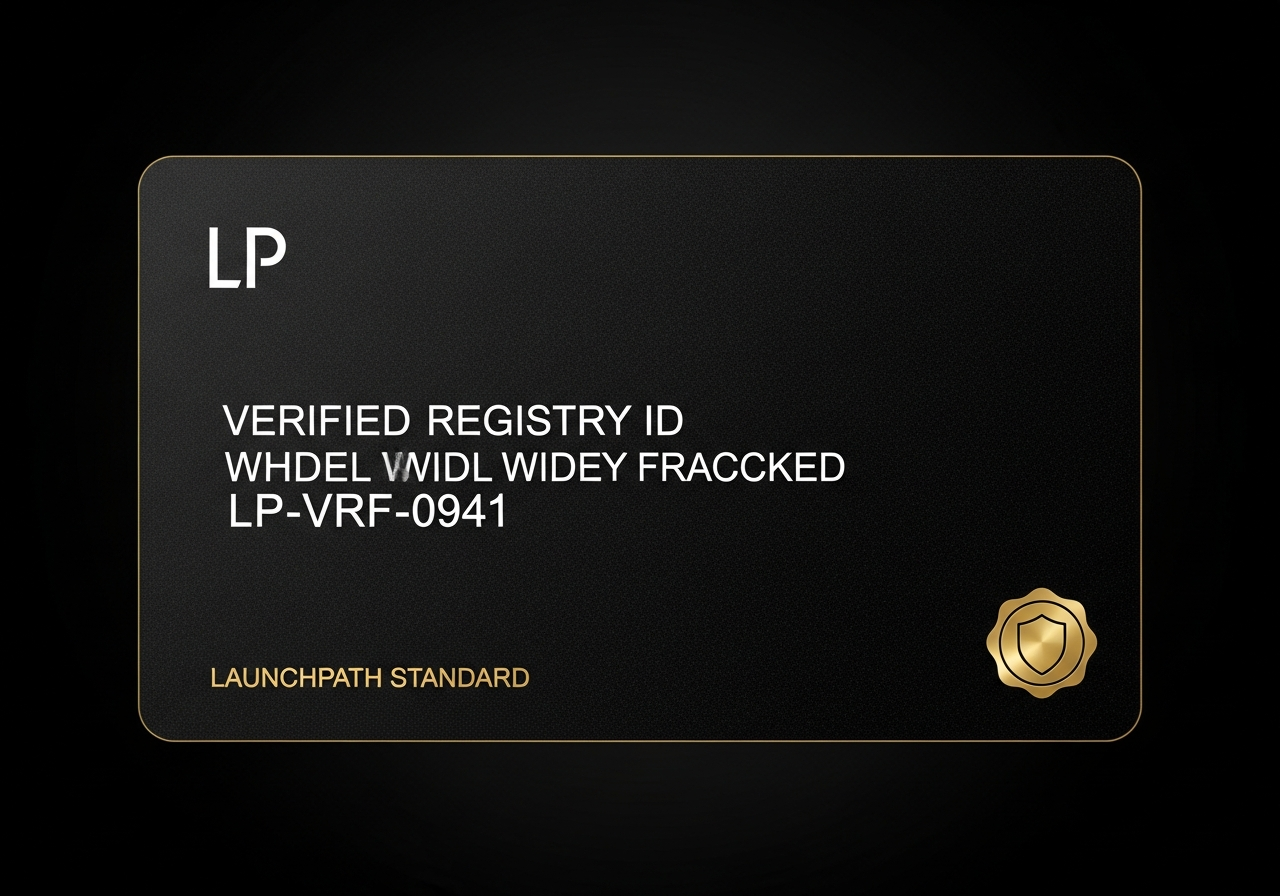
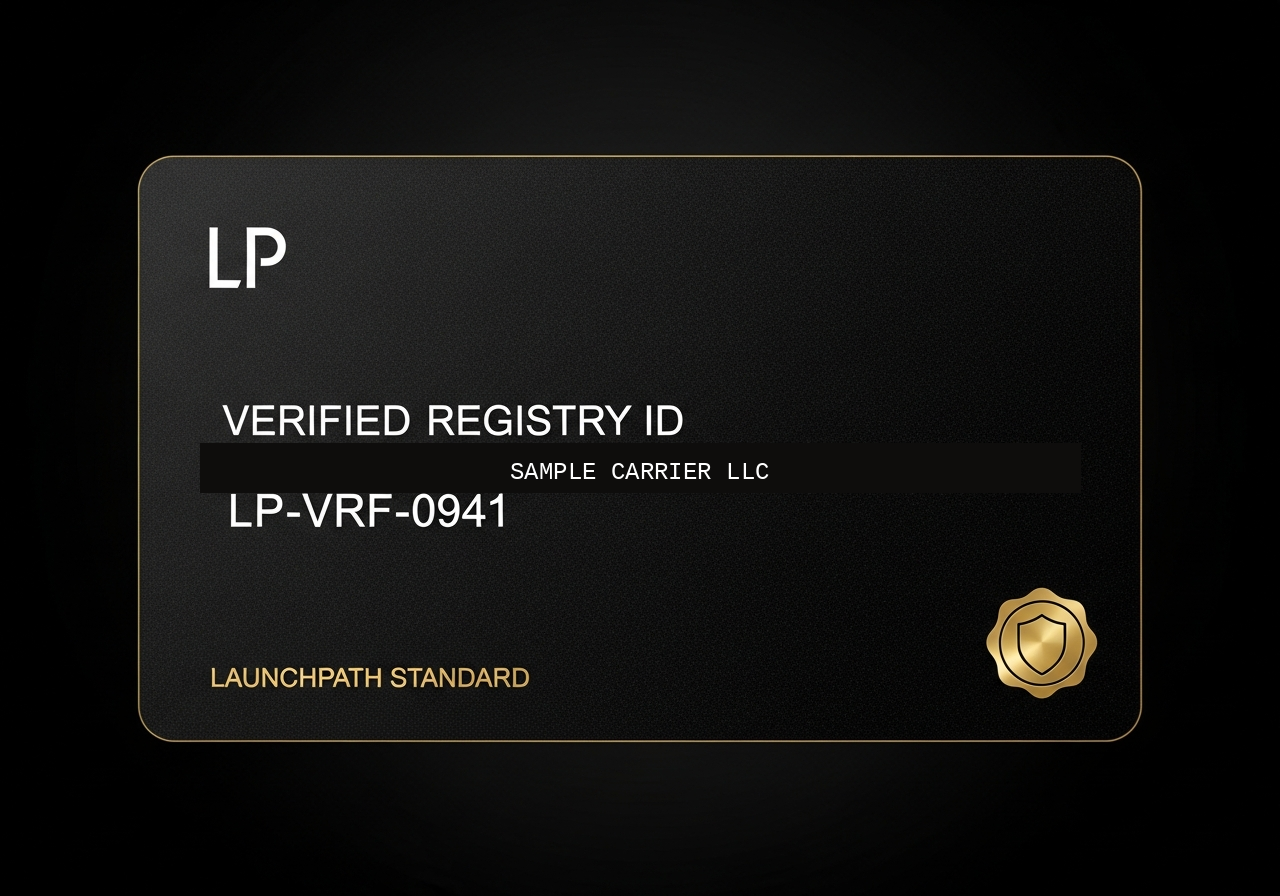
auto-commit for 73469d58-db33-4272-a30d-e653c49c2a10

Changed region(s): [[0.1562, 0.5, 0.6562, 0.5625]]

diff --git a/memory/PRD.md b/memory/PRD.md
@@ -525,6 +525,10 @@ Testing: 100% (13/13 backend + all frontend flows) — iteration_90
 
 ---
 
+### Phase 134: VRF Card Fix + New Bundle Cover (June 2026)
+- **VRF card garbled text fixed**: Used Pillow to paint matching dark background (RGB 14,13,12) over garbled "WHDEL WIDL WIDEY FRACCED" region (y=443–492), replaced with "SAMPLE CARRIER LLC" in Liberation Mono white. `/registry-card.png` updated in-place.
+- **New bundle cover image applied**: `bundle-document-system.webp` replaced with user-uploaded book-stack image (323kkse9), optimized to 36KB at 900px wide. Visible on `/bundle`, BundleSalesPage lightbox, and BundlePage hero.
+
 ### Phase 133: Image Zoom Fix + Header Enhancement (June 2026)
 - **Product image zoom fixed**: All domain grid cards and supplemental cards in `DomainComponentGrid.jsx` changed from `objectFit: cover` (cropped) to `objectFit: contain` with `background: #1C2B3A`. Height increased to 220px. `StarterBundleCard.jsx` same fix. Lightbox covers in `BundleSalesPage.jsx` also fixed.
 - **SiteHeader enhanced**: New nav structure (Standard, Documents, Diagnostic, Knowledge, Tools dropdown with 4 sub-items). 3px `#1C2B3A` top border. Logo + thin rule separator. Hover states: gold underline slide-in via CSS transition. Active state: navy underline. CTA buttons: PORTAL (outlined, navy) + REQUEST ADMISSION (navy bg, hover turns gold). Scroll shadow via `useEffect`. Mobile drawer preserved.
